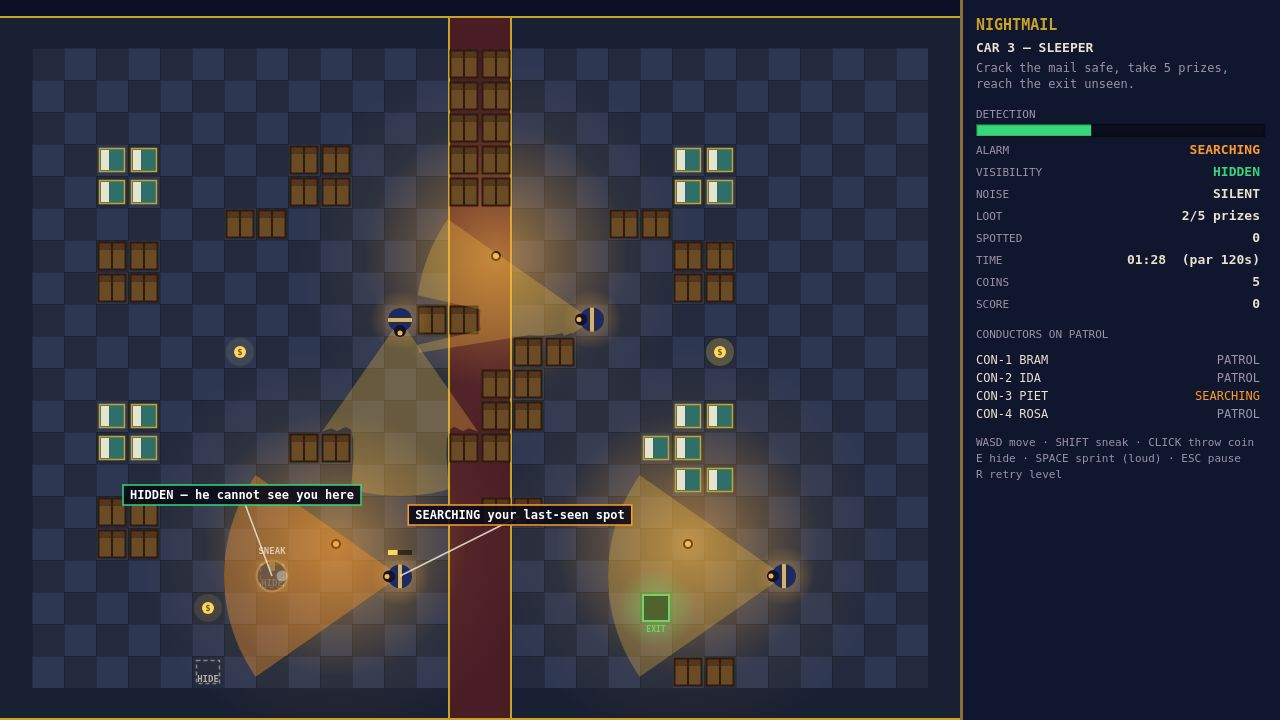
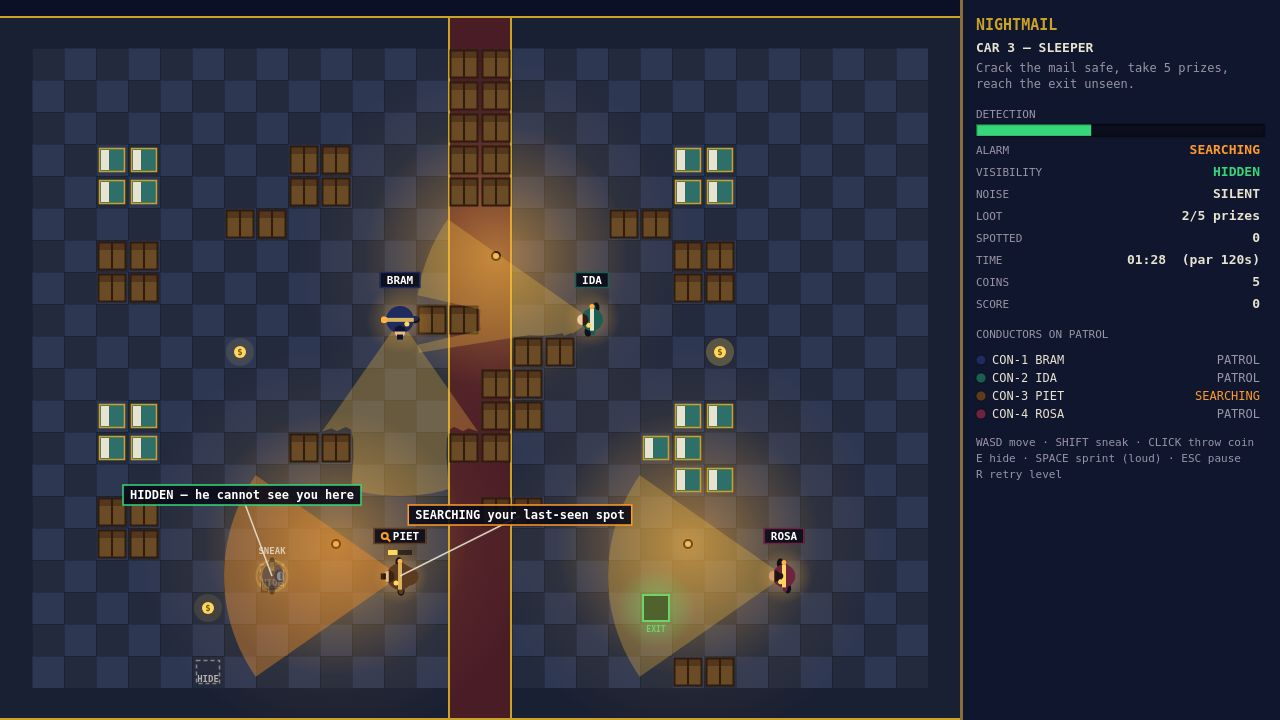
NIGHTMAIL rev2: detailed characters — the Fox and four distinct conductors
- The Fox: hooded head with mask band, amber cloak trim, satchel,
  walk-cycle feet, crouch squash while sneaking, sprint speed lines,
  'THE FOX' label on the action shot.
- Each conductor distinct: BRAM broad navy + peaked cap + big lantern,
  IDA slim teal + hair, PIET tall brown long coat + peaked cap +
  mustache, ROSA burgundy + hair bun. Walk-cycle feet, gold badge,
  facing head, per-guard lantern glow.
- Name tag above every guard (uniform-colour border) + state mark:
  '!' suspicious/alert, '?' investigating, magnifier searching.
- HUD conductor list gains a uniform-colour swatch per guard, matching
  the figure on the floor.
- Action shot: PIET moved to the lamp row two tiles from the Fox,
  BRAM suspicion 35 -> 55 so his amber '!' shows.
- Smoke test 23/23 (17 + 6 character checks incl. pixel checks of
  coats, name pills, Fox cloak, red '!' and amber magnifier).

diff --git a/game/src/render.js b/game/src/render.js
@@ -365,55 +365,164 @@ function drawCones(ctx, world) {
   }
 }
 
+// State mark for a guard's name tag: '!' when suspicious or hunting,
+// '?' while investigating a noise, a magnifier while searching the
+// last-seen spot. Calm patrol shows no mark — just the name.
+function guardMark(guard) {
+  if (guard.state === 'chase') return { type: 'bang', color: COLORS.danger };
+  if (guard.state === 'search') return { type: 'search', color: '#ff9a2e' };
+  if (guard.state === 'investigate') return { type: 'quest', color: '#ff9a2e' };
+  if (guard.suspicion >= 50) return { type: 'bang', color: '#ff9a2e' };
+  return { type: 'none', color: null };
+}
+
+// Name tag above a guard: dark pill bordered in the guard's uniform
+// colour, state mark on the left, short name on the right. The pill is
+// the only place a guard's name appears on the floor — it is what ties
+// each figure to its line in the HUD's conductor list.
+function drawGuardNameTag(ctx, guard) {
+  const mark = guardMark(guard);
+  const name = guard.shortName;
+  ctx.font = 'bold 11px monospace';
+  const nameW = ctx.measureText(name).width;
+  const markW = mark.type === 'none' ? 0 : 12;
+  const w = nameW + markW + 14;
+  const x0 = guard.x - w / 2;
+  const y0 = guard.y - 48;
+  ctx.fillStyle = 'rgba(8, 10, 24, 0.88)';
+  ctx.fillRect(x0, y0, w, 16);
+  ctx.strokeStyle = guard.look.coat;
+  ctx.lineWidth = 1.5;
+  ctx.strokeRect(x0 + 0.5, y0 + 0.5, w - 1, 15);
+  let tx = x0 + 7;
+  ctx.textAlign = 'left';
+  if (mark.type === 'bang' || mark.type === 'quest') {
+    ctx.fillStyle = mark.color;
+    ctx.fillText(mark.type === 'bang' ? '!' : '?', tx, y0 + 12);
+    tx += 12;
+  } else if (mark.type === 'search') {
+    ctx.strokeStyle = mark.color;
+    ctx.lineWidth = 2;
+    ctx.beginPath();
+    ctx.arc(tx + 4, y0 + 8, 3, 0, Math.PI * 2);
+    ctx.stroke();
+    ctx.beginPath();
+    ctx.moveTo(tx + 6.5, y0 + 10.5);
+    ctx.lineTo(tx + 9.5, y0 + 13.5);
+    ctx.stroke();
+    tx += 12;
+  }
+  ctx.fillStyle = '#ffffff';
+  ctx.fillText(name, tx, y0 + 12);
+}
+
 function drawGuard(ctx, guard, now) {
+  const look = guard.look;
+  const r = 12 * look.scale;
+  const swing = Math.sin(guard.walkPhase) * 4;
   const bob = Math.sin(now * 0.006 + guard.index * 2) * 1.2;
   ctx.save();
   ctx.translate(guard.x, guard.y + bob * 0.4);
-  // Lantern glow.
-  const glow = ctx.createRadialGradient(0, 0, 2, 0, 0, 30);
+  // Lantern glow — BRAM's lantern burns brightest.
+  const glowR = look.feature === 'lantern' ? 34 : 28;
+  const glow = ctx.createRadialGradient(0, 0, 2, 0, 0, glowR);
   glow.addColorStop(0, 'rgba(255, 179, 71, 0.35)');
   glow.addColorStop(1, 'rgba(255, 179, 71, 0)');
   ctx.fillStyle = glow;
   ctx.beginPath();
-  ctx.arc(0, 0, 30, 0, Math.PI * 2);
+  ctx.arc(0, 0, glowR, 0, Math.PI * 2);
   ctx.fill();
-  // Body: navy uniform, brass buttons, cap.
   ctx.rotate(guard.dir);
-  ctx.fillStyle = COLORS.guardNavy;
+  // Walking feet: dark shoes at the sides, swinging with the stride.
+  ctx.fillStyle = '#10101c';
   ctx.beginPath();
-  ctx.arc(0, 0, 12, 0, Math.PI * 2);
+  ctx.ellipse(swing, -(r + 1), 3.5, 5, 0, 0, Math.PI * 2);
   ctx.fill();
-  ctx.fillStyle = COLORS.guardTrim;
-  ctx.fillRect(-2, -12, 4, 24);
-  ctx.fillStyle = '#0e1430';
   ctx.beginPath();
-  ctx.arc(11, 0, 6, 0, Math.PI * 2);
+  ctx.ellipse(-swing, r + 1, 3.5, 5, 0, 0, Math.PI * 2);
   ctx.fill();
+  // Shoulder nubs: the coat's silhouette widens at the arms.
+  ctx.fillStyle = look.coat;
+  ctx.beginPath();
+  ctx.ellipse(-1, -(r + 0.5), 2.5, 4, 0, 0, Math.PI * 2);
+  ctx.fill();
+  ctx.beginPath();
+  ctx.ellipse(-1, r + 0.5, 2.5, 4, 0, 0, Math.PI * 2);
+  ctx.fill();
+  // PIET's long coat: a skirt trailing behind the torso.
+  if (look.feature === 'mustache') {
+    ctx.fillStyle = look.coat;
+    ctx.beginPath();
+    ctx.ellipse(-r * 0.55, 0, r * 0.85, r * 0.72, 0, 0, Math.PI * 2);
+    ctx.fill();
+  }
+  // Torso: the uniform coat, trim stripe down the front.
+  ctx.fillStyle = look.coat;
+  ctx.beginPath();
+  ctx.arc(0, 0, r, 0, Math.PI * 2);
+  ctx.fill();
+  ctx.fillStyle = look.trim;
+  ctx.fillRect(-2, -r, 4, r * 2);
+  // Gold badge on the chest.
+  ctx.fillStyle = COLORS.lootGold;
+  ctx.beginPath();
+  ctx.arc(r * 0.3, -r * 0.5, 2.5, 0, Math.PI * 2);
+  ctx.fill();
+  // Head: skin, facing the way the guard walks.
+  const hx = r * 0.85;
+  ctx.fillStyle = look.skin;
+  ctx.beginPath();
+  ctx.arc(hx, 0, 5.5, 0, Math.PI * 2);
+  ctx.fill();
+  if (look.hat === 'peaked') {
+    // Peaked cap: dark crown over the back of the head, brim forward.
+    ctx.fillStyle = look.cap;
+    ctx.beginPath();
+    ctx.arc(hx, 0, 6, Math.PI * 0.5, Math.PI * 1.5);
+    ctx.fill();
+    ctx.fillRect(hx + 3, -3, 5, 6);
+  } else {
+    // Hair: a dark arc over the head; ROSA wears hers in a bun.
+    ctx.fillStyle = look.hair;
+    ctx.beginPath();
+    ctx.arc(hx, 0, 6, Math.PI * 0.5, Math.PI * 1.5);
+    ctx.fill();
+    if (look.feature === 'bun') {
+      ctx.beginPath();
+      ctx.arc(hx - 6, 0, 3, 0, Math.PI * 2);
+      ctx.fill();
+    }
+  }
+  if (look.feature === 'mustache') {
+    // PIET's mustache: a dark band across the front of the face.
+    ctx.strokeStyle = '#2e1d0e';
+    ctx.lineWidth = 2;
+    ctx.beginPath();
+    ctx.moveTo(hx + 4, -3);
+    ctx.lineTo(hx + 4, 3);
+    ctx.stroke();
+  }
+  // Lantern held at the side, a warm dot in the dark.
   ctx.fillStyle = COLORS.lampGlow;
   ctx.beginPath();
-  ctx.arc(13, 0, 2.5, 0, Math.PI * 2);
+  ctx.arc(0, r + 2, look.feature === 'lantern' ? 3.5 : 2.5, 0, Math.PI * 2);
   ctx.fill();
   ctx.restore();
-  // Suspicion pip above the head.
+  // Suspicion pip above the head — bar only, the mark lives in the tag.
   if (guard.suspicion > 5) {
     const frac = guard.suspicion / 100;
     ctx.fillStyle = '#00000088';
     ctx.fillRect(guard.x - 12, guard.y - 26, 24, 5);
     ctx.fillStyle = guard.suspicion >= 100 ? COLORS.danger : guard.suspicion >= 50 ? '#ff9a2e' : '#ffd75e';
     ctx.fillRect(guard.x - 12, guard.y - 26, 24 * frac, 5);
-    if (guard.suspicion >= 50) {
-      ctx.fillStyle = guard.suspicion >= 100 ? COLORS.danger : '#ff9a2e';
-      ctx.font = 'bold 11px monospace';
-      ctx.textAlign = 'center';
-      ctx.fillText(guard.suspicion >= 100 ? '!' : '?', guard.x, guard.y - 30);
-      ctx.textAlign = 'left';
-    }
   }
+  drawGuardNameTag(ctx, guard);
 }
 
 function drawPlayer(ctx, world, now) {
   const p = world.player;
   if (!p) return;
+  const swing = Math.sin(p.walkPhase) * 4;
   ctx.save();
   ctx.globalAlpha = p.hidden ? 0.45 : 1;
   ctx.translate(p.x, p.y);
@@ -425,23 +534,68 @@ function drawPlayer(ctx, world, now) {
   ctx.beginPath();
   ctx.arc(0, 0, 28, 0, Math.PI * 2);
   ctx.fill();
-  ctx.rotate(p.dir);
-  ctx.fillStyle = COLORS.playerCloak;
-  ctx.beginPath();
-  ctx.arc(0, 0, 14, 0, Math.PI * 2);
-  ctx.fill();
   // A light ring so the Fox pops against the floor at thumbnail size.
   ctx.strokeStyle = 'rgba(232, 177, 60, 0.75)';
   ctx.lineWidth = 2;
   ctx.beginPath();
   ctx.arc(0, 0, 15.5, 0, Math.PI * 2);
   ctx.stroke();
+  ctx.rotate(p.dir);
+  // Crouch while sneaking: the Fox squashes along the way he moves.
+  ctx.scale(p.sneak ? 0.82 : 1, 1);
+  // Walking feet: dark shoes at the sides, swinging with the stride.
+  ctx.fillStyle = '#0d0d18';
+  ctx.beginPath();
+  ctx.ellipse(swing, -13.5, 3.5, 5, 0, 0, Math.PI * 2);
+  ctx.fill();
+  ctx.beginPath();
+  ctx.ellipse(-swing, 13.5, 3.5, 5, 0, 0, Math.PI * 2);
+  ctx.fill();
+  // Satchel: the Fox's brown bag, slung at the back hip.
+  ctx.fillStyle = '#6b4a26';
+  ctx.fillRect(-13, 6, 8, 10);
+  ctx.strokeStyle = '#2e1d0e';
+  ctx.lineWidth = 1;
+  ctx.strokeRect(-13, 6, 8, 10);
+  // Cloak: dark, hooded, amber trim along the hem.
+  ctx.fillStyle = COLORS.playerCloak;
+  ctx.beginPath();
+  ctx.arc(0, 0, 14, 0, Math.PI * 2);
+  ctx.fill();
+  ctx.strokeStyle = COLORS.playerScarf;
+  ctx.lineWidth = 2;
+  ctx.beginPath();
+  ctx.arc(0, 0, 13, Math.PI * 0.6, Math.PI * 1.4);
+  ctx.stroke();
+  // Scarf: amber band across the neck.
   ctx.fillStyle = COLORS.playerScarf;
   ctx.fillRect(-3, -14, 6, 9);
+  // Hooded head: dark hood ring around the pale face, mask band across it.
+  ctx.fillStyle = COLORS.playerCloak;
+  ctx.beginPath();
+  ctx.arc(9, 0, 6.5, 0, Math.PI * 2);
+  ctx.fill();
   ctx.fillStyle = '#e8e2d0';
   ctx.beginPath();
-  ctx.arc(10, 0, 5.5, 0, Math.PI * 2);
+  ctx.arc(10.5, 0, 4.5, 0, Math.PI * 2);
   ctx.fill();
+  ctx.strokeStyle = '#10101c';
+  ctx.lineWidth = 2.5;
+  ctx.beginPath();
+  ctx.moveTo(11.5, -3.5);
+  ctx.lineTo(11.5, 3.5);
+  ctx.stroke();
+  // Sprint: speed lines trail behind the Fox.
+  if (p.sprint) {
+    ctx.strokeStyle = 'rgba(232, 177, 60, 0.6)';
+    ctx.lineWidth = 2;
+    ctx.beginPath();
+    ctx.moveTo(-20, -7);
+    ctx.lineTo(-14, -7);
+    ctx.moveTo(-22, 7);
+    ctx.lineTo(-16, 7);
+    ctx.stroke();
+  }
   ctx.restore();
   if (p.sneak) {
     ctx.fillStyle = 'rgba(232, 226, 208, 0.8)';

diff --git a/game/src/guards.js b/game/src/guards.js
@@ -25,14 +25,19 @@ import { clamp, dist } from './random.js';
 import { moveEntity, tileCenter } from './collision.js';
 import { inCone, lightAt } from './vision.js';
 import { isSolidTile } from './levels.js';
+import { GUARD_LOOKS } from './config.js';
 
 export function makeGuard(def, index) {
   const [sx, sy] = def.waypoints[0];
   const start = tileCenter(sx, sy);
   const [nx, ny] = def.waypoints[1 % def.waypoints.length];
   const next = tileCenter(nx, ny);
+  // "CON-1 BRAM" -> short name BRAM; the look is that guard's identity.
+  const shortName = def.name.split(' ').pop();
   return {
     name: def.name,
+    shortName,
+    look: GUARD_LOOKS[shortName] || GUARD_LOOKS.BRAM,
     index,
     x: start.x,
     y: start.y,
@@ -49,6 +54,7 @@ export function makeGuard(def, index) {
     stimulus: null,
     lastSeen: null,
     stepTimer: 0,
+    walkPhase: index * 1.7, // staggered mid-stride pose per guard
   };
 }
 
@@ -75,6 +81,8 @@ function nearestWalkable(world, cx, cy, rng, radiusTiles) {
 
 export function updateGuard(world, guard, dt) {
   const player = world.player;
+  const ox = guard.x;
+  const oy = guard.y;
 
   // --- perception: can this guard see the player right now? ---
   let sees = false;
@@ -176,6 +184,11 @@ export function updateGuard(world, guard, dt) {
       guard.wpIndex = (best + 1) % guard.waypoints.length;
       guard.state = 'patrol';
     }
+  }
+
+  // Walk cycle: the stride swings only while the guard actually moves.
+  if (Math.hypot(guard.x - ox, guard.y - oy) > 0.05) {
+    guard.walkPhase += dt * (guard.state === 'chase' ? 11 : 8);
   }
 
   // Footstep sound when a guard walks close enough to hear.

diff --git a/game/src/shots.js b/game/src/shots.js
@@ -43,9 +43,11 @@ export function stageShot(world, shot) {
     world.player.y = playerAt.y;
     world.player.sneak = true;
     world.player.dir = Math.PI;
-    placeGuard(world, 0, 12, 10, 0, 'patrol', 35);
+    placeGuard(world, 0, 12, 10, 0, 'patrol', 55);
     placeGuard(world, 1, 24, 17, Math.PI / 2, 'patrol', 0);
-    placeGuard(world, 2, 10, 6, Math.PI, 'patrol', 0);
+    // PIET patrols the lamp row two tiles from the Fox, facing away —
+    // close enough that his uniform, name tag and calm state all read.
+    placeGuard(world, 2, 16, 7, Math.PI, 'patrol', 0);
     world.loot[0].taken = true;
     world.lootGot = 1;
     world.time = 41;
@@ -53,6 +55,7 @@ export function stageShot(world, shot) {
     world.annotations = [
       label('VISION CONE', 15, 10, -40, -90, '#c9a227'),
       label('YOU: hidden where the cone stops', 18, 10, 30, 96, '#37d67a'),
+      label('THE FOX', 18, 10, 0, -50, '#e8b13c'),
       label('LOOT — take it, then the exit', 21, 11, 90, -70, '#ffd75e'),
       label('EXIT →', 20, 18, 90, 40, '#37d67a'),
       label('LAMPLIGHT: seen from across the room', 15, 7, -90, -70, '#ffb347'),

diff --git a/game/src/config.js b/game/src/config.js
@@ -51,6 +51,16 @@ export const LAMP_RADIUS = 132;
 // Catching: a chasing guard this close to the player ends the level.
 export const CATCH_DIST = 20;
 
+// Guard personas: each conductor reads as a different person at a
+// glance — own uniform colour, headgear, build and tell. The HUD swatch
+// and the floor figure use the same coat colour per guard.
+export const GUARD_LOOKS = {
+  BRAM: { coat: '#1f2a5e', trim: '#d8b25c', cap: '#0e1430', hair: null, skin: '#e8b98a', scale: 1.15, hat: 'peaked', feature: 'lantern' },
+  IDA: { coat: '#1e5e52', trim: '#e8e2d0', cap: null, hair: '#2e1d12', skin: '#f0c8a0', scale: 0.92, hat: 'hair', feature: null },
+  PIET: { coat: '#5e3a1f', trim: '#d8b25c', cap: '#3a2410', hair: null, skin: '#e8b98a', scale: 1.1, hat: 'peaked', feature: 'mustache' },
+  ROSA: { coat: '#6e2440', trim: '#ffd75e', cap: null, hair: '#1e1410', skin: '#d8a070', scale: 0.95, hat: 'hair', feature: 'bun' },
+};
+
 // Colours: warm amber lamps against deep blue night.
 export const COLORS = {
   night: '#0b1026',

diff --git a/game/src/hud.js b/game/src/hud.js
@@ -109,9 +109,18 @@ export function drawHud(ctx, world) {
               ? 'SEARCHING'
               : 'RETURNING';
     const c = g.state === 'chase' ? COLORS.danger : g.state === 'patrol' ? COLORS.textDim : '#ff9a2e';
+    // Colour swatch in the guard's uniform colour — the same colour as
+    // the figure on the floor, so the list and the car match at a glance.
+    ctx.fillStyle = g.look.coat;
+    ctx.beginPath();
+    ctx.arc(x + 5, y - 4, 5, 0, Math.PI * 2);
+    ctx.fill();
+    ctx.strokeStyle = 'rgba(0,0,0,0.5)';
+    ctx.lineWidth = 1;
+    ctx.stroke();
     ctx.fillStyle = COLORS.text;
     ctx.font = '12px monospace';
-    ctx.fillText(g.name, x, y);
+    ctx.fillText(g.name, x + 16, y);
     ctx.fillStyle = c;
     ctx.textAlign = 'right';
     ctx.fillText(label, PANEL_X + 300, y);

diff --git a/game/src/player.js b/game/src/player.js
@@ -26,6 +26,7 @@ export function makePlayer(start) {
     hidden: false,
     coins: 5,
     stepTimer: 0,
+    walkPhase: 0,
     path: [{ x: at.x, y: at.y }],
     pathTimer: 0,
   };
@@ -54,6 +55,7 @@ export function updatePlayer(world, dt) {
     moveEntity(world, player, mx * speed * dt, my * speed * dt, 14);
     player.dir = Math.atan2(my, mx);
     player.hidden = false;
+    player.walkPhase += dt * (player.sneak ? 5 : player.sprint ? 11 : 8);
     // Footsteps: sprinting is loud enough for nearby guards to hear.
     player.stepTimer -= dt;
     if (player.stepTimer <= 0) {
